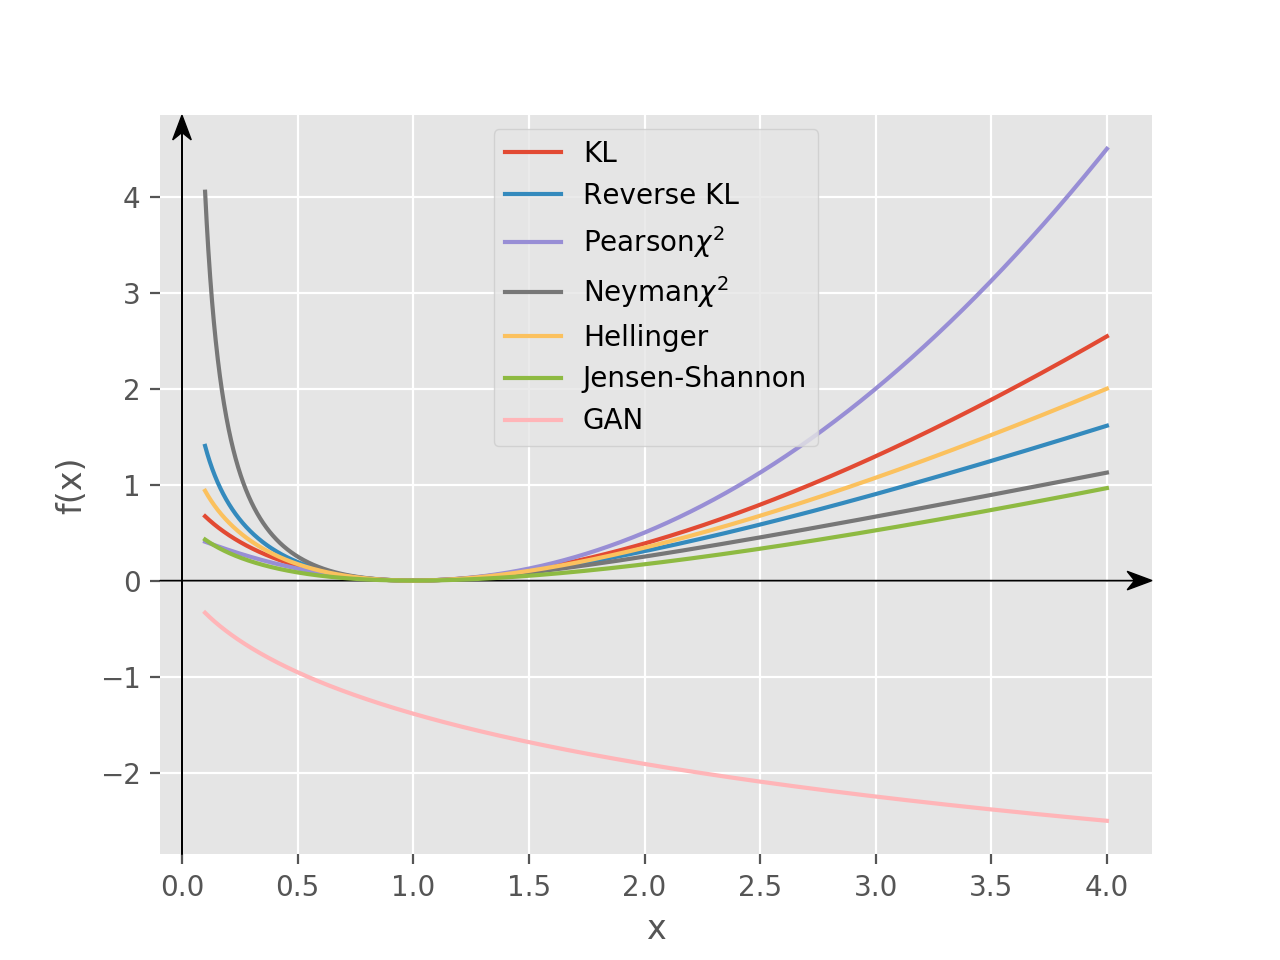
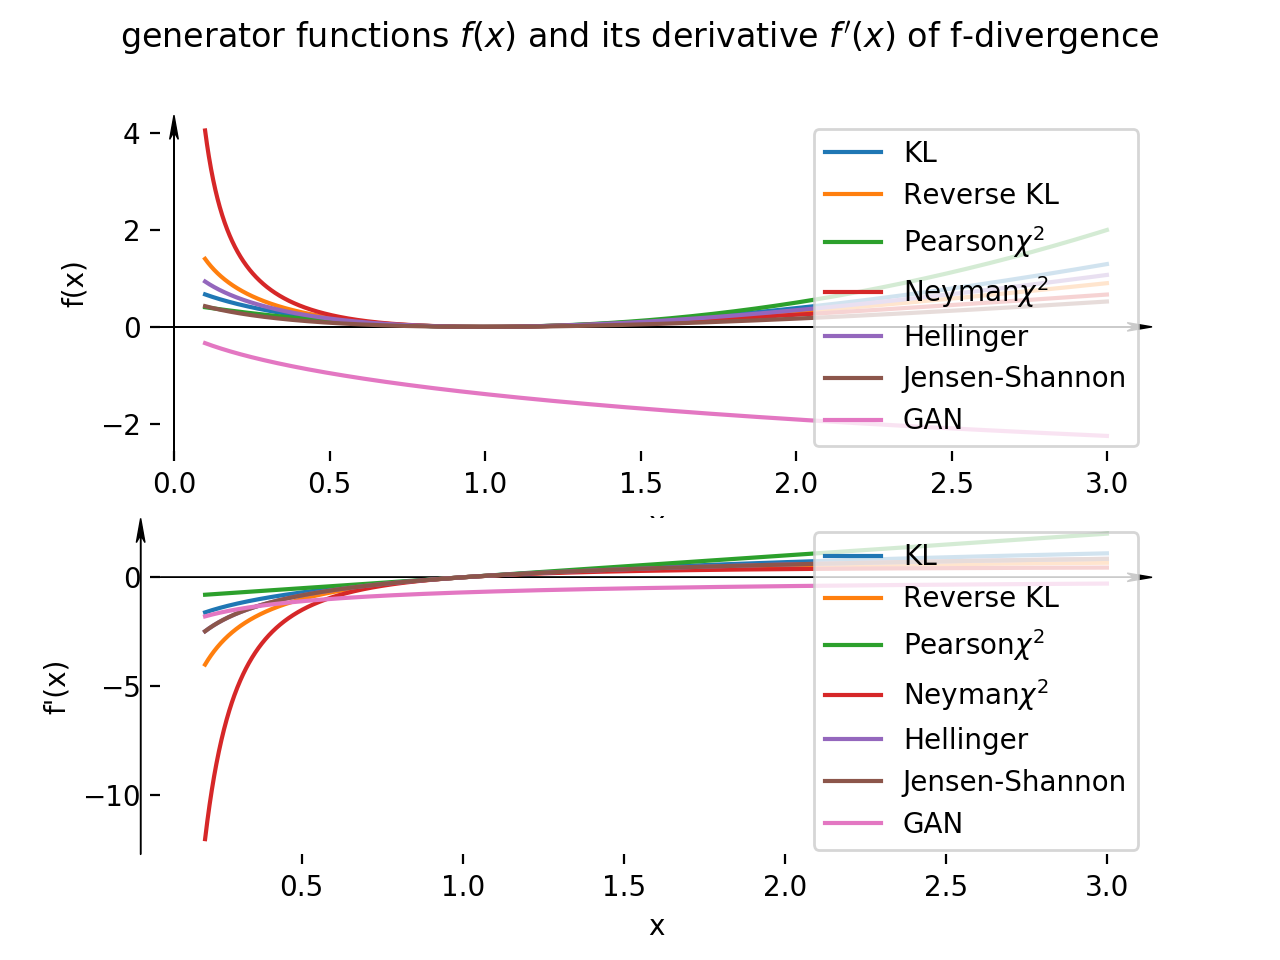
convex conjugate

diff --git a/_posts/2018-02-06-Alpha.md b/_posts/2018-02-06-Alpha.md
@@ -86,6 +86,31 @@ $$
 
 <img src="/images/posts/CVX/f_gen.png" height="480" width="640"> 
 
+We can see from above plots of different $f(x)$, there are 
+
+> * all convex functions on $$(0, \infty))$$ 
+* attain minimum at $$x=1$$ with $$f(1)=0$$. excpet the GAN. 
+
+The **Convex Conjugate** of the generator functions and its derivative can be summaried as following. 
+
+$$
+\begin{eqnarray}
+&:& \quad \quad \quad \quad f^{\ast}(y)&:& \quad \quad \quad \quad (f^{\ast})'(y) &:& \quad \quad \text{dom} f^{\ast} & \\
+\text{========} &:& \text{============} &:& \text{==========} &:& \text{========} &\\
+\text{KL} \quad &:& \quad \quad e^y-1 &:& \quad  \quad e^y &:& \quad  \quad \mathbb{R}&\\
+\text{Reverse KL} \quad &:& \quad \quad -\log(1-y)&:&  \quad \quad \frac{1}{1-y} &:& \quad  \quad y < 1 &\\
+\text{Pearson} \chi^2 \quad &:& \quad \quad \frac{1}{2}(y+1)^2-\frac{1}{2}&:&  \quad \quad y+1 &:& \quad  \quad y > -1\\
+\text{Neyman} \chi^2 \quad &:& \quad \quad -\sqrt{1-2y}+1&:& \quad  \quad \frac{1}{\sqrt{1-2y}} &:& \quad  \quad y < \frac{1}{2}&\\
+\text{Hellinger} \quad &:& \quad \quad \frac{2y}{2-y}&:& \quad  \quad \frac{4}{(2-y)^2} &:& \quad  \quad y < 2&\\
+\end{eqnarray}
+$$
+
+<img src="/images/posts/CVX/ff_gen.png" height="480" width="640"> 
+
+> * Function $$f^{\ast}$$ has the property $$f^{\ast}(0)=0$$.
+* Function $$(f^{\ast})'$$ is positive on its domain with $$(f^{\ast})'=1$$.
+
+
 They come from the so-called $\alpha$-function, with different value for $\alpha$
 
 $$
